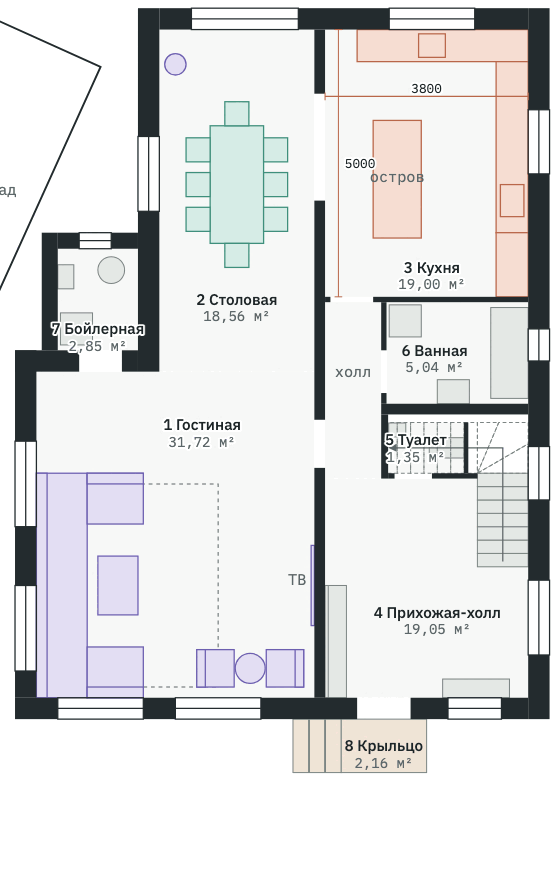
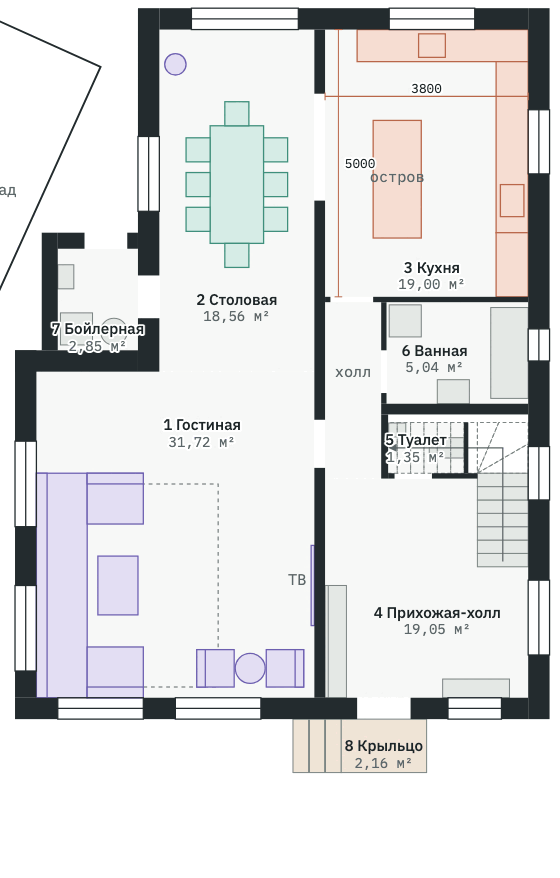
Variant 5: boiler room entered from the dining room and from outside

Changed region(s): [[0.1214, 0.246, 0.2429, 0.3075], [0.2429, 0.3075, 0.3036, 0.369], [0.1214, 0.3998, 0.2429, 0.4305]]

diff --git a/dom/v5-dvuskatnaya.html b/dom/v5-dvuskatnaya.html
@@ -124,7 +124,7 @@ tr.out td{color:var(--muted)}
 <svg id="fplan" viewBox="-90 -130 850 1000" width="100%" role="img" style="min-width:540px"><title>План фундамента</title><desc>Ростверк по буронабивным сваям под домом 10 × 13,3 м с пристройкой бойлерной: ленты ростверка показаны пунктиром, сваи кружками, сверху плита перекрытия. Крыльцо и площадка у двери в сад со ступенями, выпуски коммуникаций кружками с кодами К, В, Э, З, выходы отопления красными квадратиками О, привязка к границе участков и переднему забору. Размеры в мм.</desc></svg>
 <svg id="fsec" viewBox="0 0 680 430" width="100%" role="img" style="min-width:540px;margin-top:6px"><title>Стена, ростверк и свая в разрезе</title><desc>Разрез по наружной стене: стена 400, плита перекрытия 200, ростверк 400 × 400 с низом на уровне земли, буронабивная свая Ø300 на 2 м в грунт, подполье 400, отметки от чистого пола: земля на −0,700.</desc></svg>
 </div>
-<svg id="plan1" viewBox="0 0 680 760" width="100%" role="img" style="min-width:540px" hidden><title>План первого этажа</title><desc>Первый этаж: дом 10 × 13,3 м. Слева вся широкая часть — гостиная, в узкой задней части столовая с выходом в сад. Справа сзади кухня с островом и широким проёмом в столовую, дальше ванная, лестница буквой Г с туалетом под вторым маршем и прихожая. Вход в ровной фасадной стене ближе к центру, перед ним небольшое крыльцо, ступени идут вбок вдоль фасада. Бойлерная — пристройка между домом и складом, вход в неё из гостиной. Размеры в мм.</desc></svg>
+<svg id="plan1" viewBox="0 0 680 760" width="100%" role="img" style="min-width:540px" hidden><title>План первого этажа</title><desc>Первый этаж: дом 10 × 13,3 м. Слева вся широкая часть — гостиная, в узкой задней части столовая с выходом в сад. Справа сзади кухня с островом и широким проёмом в столовую, дальше ванная, лестница буквой Г с туалетом под вторым маршем и прихожая. Вход в ровной фасадной стене ближе к центру, перед ним небольшое крыльцо, ступени идут вбок вдоль фасада. Бойлерная — пристройка между домом и складом, входы в неё из столовой и с улицы со стороны сада. Размеры в мм.</desc></svg>
 <svg id="plan2" viewBox="0 0 680 760" width="100%" role="img" style="min-width:540px"><title>План второго этажа</title><desc>Второй этаж, полумансардный под двускатной крышей: сзади мастер-блок — спальня справа, гардеробная слева через проём в несущей стене и свой санузел за спальней. У лестницы общая ванная, посередине слева спальня с нишей у склада, под низким скатом общая гардеробная, у фасада две спальни. Коридор идёт вдоль несущей стены. Пунктиром показаны окна в крыше. Размеры в мм.</desc></svg>
 </div>
 <div class="card">
@@ -201,9 +201,9 @@ tr.out td{color:var(--muted)}
 <li><b>Подъём на 0,7 м.</b> К входной двери ведёт лестница без площадки, смотрящая вперёд: четыре ступени шириной 1,8 м и глубиной 0,3 м прямо от порога, подъёмы по 175 мм, сверху навес на двух стойках. От фасада лестница выступает на 1,2 м. У двери в сад площадка 2,4 × 1,2 м со ступенями в сад.</li>
 <li><b>Mercedes Atego с кузовом 7 м</b> (вся машина около 9,3 м) заезжает вдоль переднего забора и проезжает вперёд до границы второго участка. До забора 0,5 м, до фасада около 3,5 м, до нижней ступени крыльца около 2,3 м. Чтобы грузовик заезжал прямо вдоль забора, ворота 4,5 м сдвинуты в самый угол торца, калитка дальше по торцу. Это работает, если с улицы он подъезжает примерно вдоль переднего забора. Площадка засыпана асфальтной крошкой. Кузов высотой около 3,3 м стоит напротив окон гостиной, но теперь дальше от них.</li>
 <li><b>Склад 5,5 × 5,6 м</b> стоит стороной 5,6 м вплотную к левому забору, под углом ≈24° к дому. Склад обшит OSB. Дверь пластиковая прозрачная, у склада два окна 1 × 1 м: рядом с дверью слева и справа за углом. Через 1 м после склада вдоль забора в сторону ворот стоит вагончик-бытовка 8 × 2,4 м на блоках: обшит серым профлистом, по контуру синий профиль, крыша плоская чёрная. Дверь справа на длинной стороне к двору, окна только в торцах. Между углом склада и задней частью дома 0,7 м, от передней широкой части до склада тоже 0,7 м. В треугольнике между ними теперь стоит пристройка бойлерной, до склада от неё 0,3 м, так что прохода вдоль этой стороны дома нет. Склад стоит на стальных сваях с зазором 40 см от земли. Корпус высотой 3 м со стороны дома и 2 м у забора, крыша со скатом к забору. Вход через обычную пластиковую дверь с крыльцом из трёх ступенек в торце со стороны входа в дом.</li>
-<li><b>Гостиная и столовая.</b> Гостиная заняла всю широкую левую часть от ступеньки дома до фасада, 5,2 × 6,1 м, 31,7 м²; перегородки с кухней больше нет. П-образный диван стоит у левой стены ближе к фасаду, телевизор на несущей стене напротив, у окон на фасад два кресла. Задняя часть гостиной, где раньше была кухня, свободна. В заднем левом углу дверь в бойлерную, дверь в холл — в несущей стене напротив. Столовая осталась в узкой задней части, 2,9 × 6,4 м: стол на 8 человек и стеклянная дверь 2 м в сад. Между столовой и гостиной стены нет.</li>
+<li><b>Гостиная и столовая.</b> Гостиная заняла всю широкую левую часть от ступеньки дома до фасада, 5,2 × 6,1 м, 31,7 м²; перегородки с кухней больше нет. П-образный диван стоит у левой стены ближе к фасаду, телевизор на несущей стене напротив, у окон на фасад два кресла. Задняя часть гостиной, где раньше была кухня, свободна. Дверь в холл — в несущей стене. Столовая осталась в узкой задней части, 2,9 × 6,4 м: стол на 8 человек и стеклянная дверь 2 м в сад. Между столовой и гостиной стены нет.</li>
 <li><b>Кухня</b> на месте детской, справа сзади, 3,8 × 5,0 м, 19 м² вместо 15,6. В столовую из неё открытый проём 2,0 м в несущей стене, в холл — дверь. Столешница с мойкой идёт вдоль задней стены под окном, вдоль правой стены столешница с варочной под вторым окном и высокие колонны, посередине остров 0,9 × 2,2 м. От острова 1,1 м до задней столешницы, 1,4 м до правой и 0,9 м до несущей стены. Подоконники обоих окон подняты до 1,05 м, чтобы под ними прошла столешница. Мебель нарисована условно, перед заказом нужен замер на месте. Детской на первом этаже больше нет.</li>
-<li><b>Бойлерная</b> — одноэтажная пристройка 1,8 × 2,2 м в треугольнике между домом и складом, внутри 1,5 × 1,9 м, 2,85 м². Вход из заднего угла гостиной, окно смотрит в сад. Внутри котёл на стене, бойлер, стиральная и сушильная машины колонной и стеллаж с фильтрами. Сюда же приходит вода и отсюда расходится отопление. Комната вдвое меньше прежней, поэтому электрический щит перенесён в прихожую. Если котёл газовый, размеры и окно бойлерной надо сверить с требованиями газовой службы: обычно нужен объём не меньше 15 м³ и открывающееся окно, а здесь выходит около 8 м³.</li>
+<li><b>Бойлерная</b> — одноэтажная пристройка 1,8 × 2,2 м в треугольнике между домом и складом, внутри 1,5 × 1,9 м, 2,85 м². Входов два: из столовой, через дверь 0,8 м в левой наружной стене дома, и с улицы со стороны сада, через дверь в задней стенке пристройки с четырьмя ступенями вниз. К уличной двери подходят из сада по проходу между складом и домом, в самом узком месте у угла склада он 0,7 м. Из гостиной двери больше нет, окна в пристройке тоже нет, поэтому уличную дверь лучше взять со стеклом. Внутри котёл на стене, бойлер, стиральная и сушильная машины колонной и фильтр. Сюда же приходит вода и отсюда расходится отопление. Комната вдвое меньше прежней, поэтому электрический щит перенесён в прихожую. Если котёл газовый, размеры и остекление бойлерной надо сверить с требованиями газовой службы: обычно нужен объём не меньше 15 м³ и открывающееся окно, а здесь выходит около 8 м³.</li>
 <li><b>Прихожая и вход.</b> Входная дверь стоит в ровной фасадной стене, в 0,6 м от несущей стены, то есть почти по центру фасада. Прихожая-холл 3,8 × 4,1 м вместе с коридором вдоль несущей стены 19,1 м². Слева от двери вдоль несущей стены открытая вешалка 2,1 м со скамьёй, справа под окном обувница, у двери электрический щит. Слева от первого марша лестницы ниша 1,8 × 0,9 м под шкаф. Лестница начинается у правой стены, от двери до её первой ступени 2,5 м по диагонали: дверь сдвинулась к центру, поэтому ступени теперь не прямо напротив неё, а правее.</li>
 <li><b>Лестница буквой Г.</b> Первый марш идёт от прихожей вдоль правой стены вглубь дома: 7 ступеней шириной 0,95 м. В углу три забежные ступени с поворотом налево, под окном. Второй марш, ещё 7 ступеней, выходит в коридор второго этажа. Всего 18 подъёмов по 170 мм, проступь 250 мм. Это в пределах норм для частного дома (подъём до 200 мм, проступь от 250 мм), но проступь на нижней границе: формула удобства 2 × 170 + 250 = 590 мм при норме 600–640.</li>
 <li><b>Ванная и туалет раздельно.</b> Туалет встал под вторым маршем лестницы, на месте кладовки: 0,95 × 1,4 м, вход из прихожей. У двери потолок 2,25–2,6 м, там стоишь в полный рост и висит маленькая раковина; унитаз стоит дальше, где под ступенями 1,7–2,0 м. Ниже 1,6 м пространство отгорожено. Прежний санузел стал ванной 5,0 м² без унитаза: ванна, раковина и место под шкаф или вторую стиральную машину. В туалете нужна своя вытяжка. Кладовки под лестницей больше нет.</li>
@@ -239,8 +239,8 @@ tr.out td{color:var(--muted)}
 window.HOUSE={FL2:3060,H1:2800,H2:2700,
 /* дом 10 × 13,3 м: сзади 7,7 м, с 6,4 м от задней стены ступенька к складу; бойлерная — пристройка в треугольнике между складом и домом */
 walls1:[
- {o:'v',a0:-400,a1:6400,c0:300,c1:700,ops:[{f:2000,t:3400,s:900,h:2700,k:'w'}]},
- {o:'h',a0:-2000,a1:300,c0:6000,c1:6400,ops:[{f:-800,t:0,s:0,h:2100,k:'d'}]},
+ {o:'v',a0:-400,a1:6400,c0:300,c1:700,ops:[{f:2000,t:3400,s:900,h:2700,k:'w'},{f:4600,t:5400,s:0,h:2100,k:'d'}]},
+ {o:'h',a0:-2000,a1:300,c0:6000,c1:6400,ops:[]},
  {o:'h',a0:700,a1:7600,c0:-400,c1:0,ops:[{f:1300,t:3300,s:0,h:2400,k:'g'},{f:5000,t:6600,s:1050,h:2400,k:'w'}]},
  {o:'v',a0:-400,a1:12900,c0:7600,c1:8000,ops:[{f:1500,t:2700,s:1050,h:2400,k:'w'},{f:5600,t:6200,s:1400,h:2100,k:'w'},{f:7800,t:8800,s:1600,h:2800,k:'w'},{f:10300,t:11700,s:800,h:2600,k:'w'}]},
  {o:'v',a0:6000,a1:12500,c0:-2000,c1:-1600,ops:[{f:7700,t:9300,s:900,h:2600,k:'w'},{f:10400,t:12000,s:900,h:2600,k:'w'}]},
@@ -253,7 +253,7 @@ walls1:[
  {o:'h',a0:4980,a1:6650,c0:8300,c1:8400,ops:[{f:5100,t:5800,s:0,h:2000,k:'d'}]},
  {o:'v',a0:7350,a1:8300,c0:6400,c1:6480,ops:[],hh:1550},
  {o:'v',a0:3800,a1:6000,c0:-1500,c1:-1200,ops:[]},
- {o:'h',a0:-1200,a1:300,c0:3800,c1:4100,ops:[{f:-800,t:-200,s:1200,h:2000,k:'w'}]}
+ {o:'h',a0:-1200,a1:300,c0:3800,c1:4100,ops:[{f:-700,t:100,s:0,h:2100,k:'d'}]}
 ],
 /* 2 этаж: сзади мастер-блок — спальня справа, гардеробная слева, свой санузел за спальней; общая ванная у лестницы над ванной 1 этажа; три спальни с дверями из коридора; общая гардеробная под низким скатом */
 walls2:[
@@ -333,7 +333,8 @@ ROOF:{ridge:3700,knee:2100},LEN:12900
   piles:pl2,
   /* крыльцо и площадка у двери в сад: площадка на уровне пола и три ступени, [x, y, по x, по y, отметка верха] */
   porch:[[4000,YE,1800,300,-20],[4000,YE+300,1800,300,-195],[4000,YE+600,1800,300,-370],[4000,YE+900,1800,300,-545],
-   [1100,-1600,2400,1200,-20],[1100,-1900,2400,300,-195],[1100,-2200,2400,300,-370],[1100,-2500,2400,300,-545]],
+   [1100,-1600,2400,1200,-20],[1100,-1900,2400,300,-195],[1100,-2200,2400,300,-370],[1100,-2500,2400,300,-545],
+   [-750,3500,900,300,-20],[-750,3200,900,300,-195],[-750,2900,900,300,-370],[-750,2600,900,300,-545]],
   /* выпуски через плиту пола: [код, вид, x, y, Ø мм, что, подпись: r/l/u] — к: канализация, в: вода, э: кабель, з: заземление */
   util:[['К1','k',5800,350,50,'Мойка и посудомойка на кухне','r'],
    ['К3','k',6100,7800,110,'Унитаз, туалет под лестницей','r'],['К4','k',6700,5200,110,'Стояк общей ванной и санузла спальни 2 этажа, в стене','u'],
@@ -420,7 +421,7 @@ drawPlan(document.getElementById('plan1'),{
   ['f',6900,5200,700,1700],['f',5000,5150,600,600],['f',5900,6550,600,450],
   ['f',5750,7635,650,380],['f',4990,7360,320,260],
   ['f',-1200,4400,300,450],['f',-1150,5300,600,600]],
- circ:[['f',-200,4500,250],['l',1000,650,200],['l',2400,11950,280]],
+ circ:[['f',-150,5650,250],['l',1000,650,200],['l',2400,11950,280]],
  stair:(el,R,PT,g)=>{stairTreads(g,R,false);winders(el,PT,g,{fill:'none',stroke:'var(--f-stroke)','stroke-width':0.8,'stroke-dasharray':'3 2'});
   el('polyline',{points:PT([[7125,9950],[7125,7825],[5100,7825]]),fill:'none',stroke:'var(--muted)','stroke-width':1});
   el('polygon',{points:PT([[4980,7825],[5140,7750],[5140,7900]]),fill:'var(--muted)'});},
@@ -860,7 +861,7 @@ const toiletY=(x,y,backS)=>{B(x,y,380,650,0,400,white);B(x,backS?y+450:y,380,200
 G=f1;
 slab(FD.contour,FD.top,-FD.top,'#f3f0ea',f1);
 HS.floors1.forEach(f=>B(f[0],f[1],f[2],f[3],0,10,FLC[f[4]]));
-/* гостиная во всю широкую часть: П-образный диван у левой стены ближе к фасаду, ТВ на несущей стене, два кресла у окна; в заднем углу короб стояка и дверь в бойлерную */
+/* гостиная во всю широкую часть: П-образный диван у левой стены ближе к фасаду, ТВ на несущей стене, два кресла у окна; в заднем углу глухая стена к бойлерной */
 const sofa='#6f7f8f',cush='#7a8a9a',cushB='#8393a3';
 B(-1500,8500,3300,3800,10,8,'#d8cfc2');
 B(-1600,8300,950,4200,0,420,sofa);B(-1600,8300,200,4200,0,850,sofa);
@@ -897,10 +898,10 @@ B(6900,5200,700,1700,0,550,'#f7f7f5');B(6960,5280,580,1540,550,5,'#bfd6de');B(50
 B(5900,6550,600,450,0,800,light);B(6000,6600,400,350,800,80,white);B(5950,6985,500,15,1100,700,mirror,null,{roughness:0.1,metalness:0.4});
 /* туалет под вторым маршем лестницы: у двери высота 2,25–2,6 м, унитаз в низкой части, за ним глухая перегородка */
 B(5750,7635,450,380,0,400,white);B(6200,7635,200,380,0,820,white);B(4990,7360,320,260,750,120,white);B(4990,7355,320,12,1100,500,mirror,null,{roughness:0.1,metalness:0.4});
-/* бойлерная в пристройке между домом и складом: котёл на стене, бойлер, стиральная и сушильная машины колонной, стеллаж с фильтрами */
-B(-1200,4400,300,450,1200,750,white);B(-1200,4570,110,180,1950,300,'#b8b8b4');Cyl(-200,4500,250,0,1500,'#e8e8e8');
+/* бойлерная в пристройке между домом и складом: котёл на стене, бойлер, стиральная и сушильная машины колонной, фильтр на стене; двери из столовой и с улицы */
+B(-1200,4400,300,450,1200,750,white);B(-1200,4570,110,180,1950,300,'#b8b8b4');Cyl(-150,5650,250,0,1500,'#e8e8e8');
 B(-1150,5300,600,600,0,850,'#f2f2f2');B(-1150,5300,600,600,880,850,'#f2f2f2');
-B(-300,5650,550,300,0,1800,light);Cyl(-150,5800,90,320,420,'#3f6f9a');
+Cyl(-1090,5050,90,900,420,'#3f6f9a');
 const stairC='#b8916a',RISE=170,SL=300;
 /* лестница буквой Г: первый марш идёт от прихожей вдоль правой стены, в углу три забежные ступени, второй марш уходит влево */
 for(let i=0;i<7;i++)B(6650,10050-250*(i+1),950,250,0,(i+1)*RISE,stairC);
@@ -1164,7 +1165,7 @@ const V={entry:[[4.9,1.7,16.6],[4.9,0.6,12.9],'orbit',true],truck:[[-12,8,29],[3
  fall:[[14,10,19],[3.8,-0.9,6.0],'orbit'],ftop:[[3.4,27,4.4],[3.4,-0.7,4.0],'orbit'],ffront:[[11,4,23],[3.8,-0.8,7.0],'orbit'],fnw:[[-10,5,-7],[3.8,-0.8,6],'orbit'],fbelow:[[-6,-7,19],[3.8,-1.2,6.2],'orbit'],futil:[[11,4.5,11.5],[4.6,-0.6,6.0],'orbit'],
  dining:[[3.1,1.6,6.6],[1.9,0.8,1.0],'look'],living:[[3.2,1.6,7.0],[-0.8,0.6,10.8],'look'],kitchen:[[4.1,1.6,4.7],[7.0,0.9,1.0],'look'],
  corridor:[[4.3,1.6,12.2],[4.3,1.3,5.3],'look'],stair:[[7.05,1.6,12.2],[7.1,1.1,8.5],'look'],stairtop:[[4.4,5.6,11.7],[6.4,0.9,8.6],'orbit'],
- priem:[[4.9,1.6,12.3],[6.6,1.0,9.6],'look'],priemtop:[[5.7,10.5,14.6],[5.7,0.3,10.6],'orbit'],boiler:[[-0.3,1.6,5.85],[-1.0,1.1,4.3],'look'],
+ priem:[[4.9,1.6,12.3],[6.6,1.0,9.6],'look'],priemtop:[[5.7,10.5,14.6],[5.7,0.3,10.6],'orbit'],boiler:[[0.15,1.6,4.6],[-1.1,1.1,5.2],'look'],
  all2:[[-3,23,-2],[3.8,3.06,6.2],'orbit',false],top2:[[3.8,28,6.6],[3.8,3.06,6.2],'orbit',false],
  master:[[4.1,E,3.2],[7.0,3.6,1.2],'look'],closet:[[3.3,E,1.3],[1.0,3.6,0.9],'look'],ensuite:[[5.4,E,3.9],[7.2,3.5,4.6],'look'],nwbed:[[3.3,E,6.9],[1.6,3.6,4.3],'look'],swbed:[[4.2,E,9.7],[7.0,3.6,11.6],'look'],cabinet:[[3.3,E,9.6],[-0.8,3.6,11.6],'look'],
  corridor2:[[4.4,E,3.9],[4.4,3.5,8.9],'look'],bath2:[[5.3,E,7.0],[7.2,3.5,5.6],'look'],store:[[2.4,E,8.25],[-1.2,3.4,7.4],'look']};
